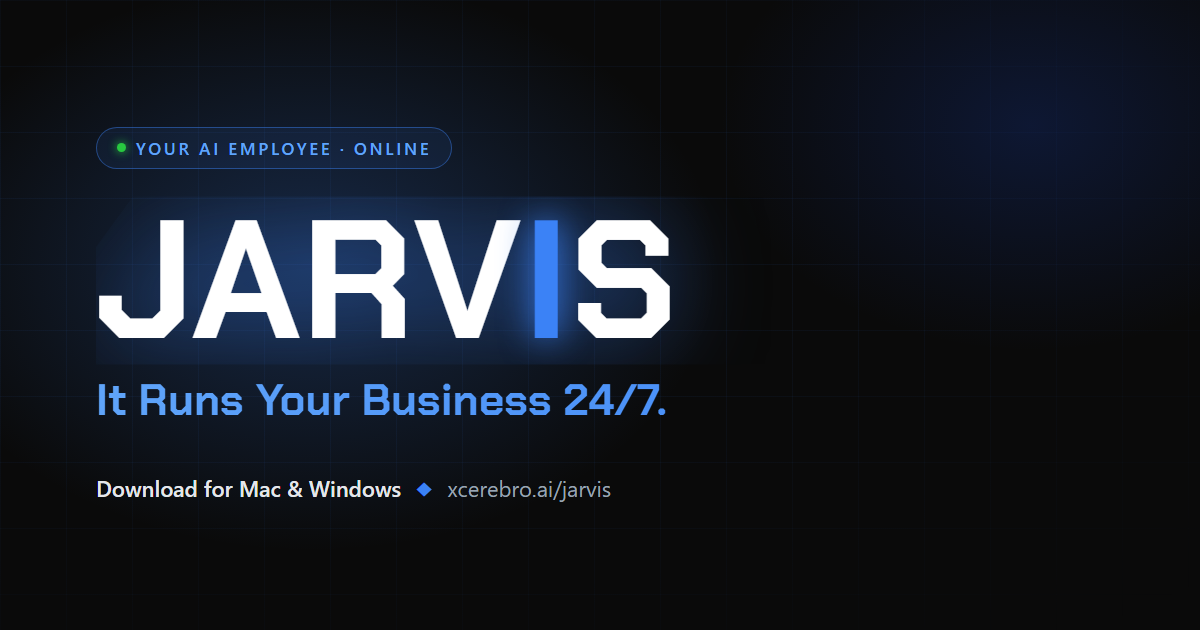
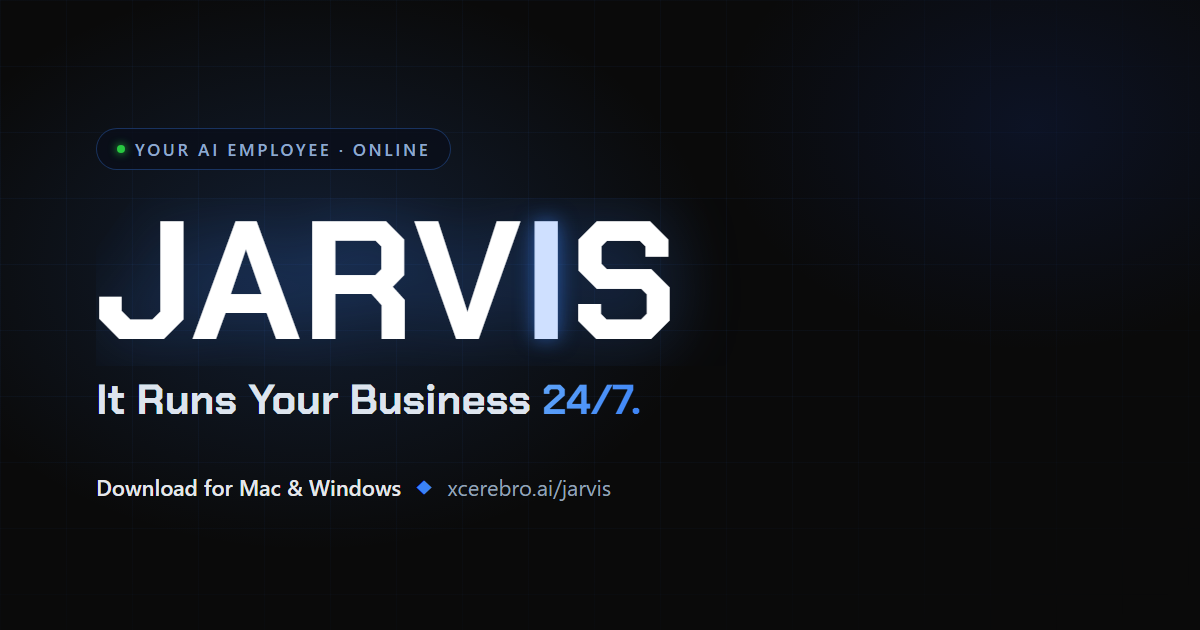
JARVIS landing: brightness rebalance — light is information (docs/jarvis)
Reference physics applied: type is white/dim; glow concentrates on OBJECTS.

Hero type: wordmark stays white with the electric I reduced to a soft
near-white glint + blue underglow; line 2 renders one step smaller (.74em),
near-white, with the gradient carried ONLY by "24/7." — no saturated
two-line gradient wall. Hero title drop-shadows cut to whispers.

The product frame is now THE glow object: 1px electric edge, layered outer
bloom, and a faint floor reflection under the frame — a powered-on screen in
a dark room. Ambient hero radials and body glows reduced ~40% to compensate;
breathing dimmed, radar sweep fainter.

Buttons: featured keeps its fill with glow spread halved (powered, not
radioactive); idle halo dimmed. Secondary hover calmed to match.

Global dim pass: body text to #94A3B8; section labels, HUD ticks, vignette
headers, card borders/shadows, stat-number glow, cmdbar and gs-box all
quieter at rest so hover blooms mean something. Badge chips restyled to the
reference language: dark fill, thin blue outline, letterspaced caps, small
status dot (pill, hudtag, verbadge).

Also fixes a REAL pre-existing phone overflow found while verifying: .inner
is a grid item, so min-width:auto let the nowrap install command's intrinsic
width inflate the hero past narrow viewports — min-width:0 + width:100% pins
it (the command scrolls inside its pill). The mobile "Recommended for you"
tag is dropped ≤560px (the detected line already says it).
[…]

diff --git a/docs/jarvis/index.html b/docs/jarvis/index.html
@@ -32,7 +32,7 @@
   :root{
     --black:#0A0A0A; --midnight:#0F172A; --panel:#111a2e;
     --electric:#3B82F6; --light:#60A5FA;
-    --text:#E5E7EB; --muted:#9AA4B2; --dim:#6B7280; --border:#1F2937;
+    --text:#E5E7EB; --muted:#94A3B8; --dim:#6B7280; --border:#1F2937;
     --glow:rgba(59,130,246,.45);
     --grad:linear-gradient(120deg,#60A5FA,#3B82F6);
     --font:'Inter',-apple-system,BlinkMacSystemFont,'Segoe UI',Roboto,Helvetica,Arial,sans-serif;
@@ -52,8 +52,8 @@
     mask-image:radial-gradient(130% 90% at 50% 0%, #000 35%, transparent 82%)}
   /* two large ambient glows (electric upper-left, deeper blue upper-right) */
   body::after{content:""; position:fixed; inset:0; z-index:-3; pointer-events:none;
-    background:radial-gradient(46% 40% at 14% 6%, rgba(59,130,246,.17), transparent 62%),
-      radial-gradient(44% 38% at 86% 4%, rgba(29,78,216,.15), transparent 62%)}
+    background:radial-gradient(46% 40% at 14% 6%, rgba(59,130,246,.10), transparent 62%),
+      radial-gradient(44% 38% at 86% 4%, rgba(29,78,216,.09), transparent 62%)}
 
   a{color:var(--light); text-decoration:none}
   a:hover{text-decoration:underline}
@@ -64,10 +64,10 @@
   .grad{background:var(--grad); -webkit-background-clip:text; background-clip:text; color:transparent}
 
   /* section label: TEXT ——• */
-  .label{display:inline-flex; align-items:center; gap:12px; color:var(--light);
+  .label{display:inline-flex; align-items:center; gap:12px; color:rgba(96,165,250,.72);
     font-size:.74rem; font-weight:600; letter-spacing:.16em; text-transform:uppercase}
-  .label .line{width:42px; height:1px; background:linear-gradient(90deg, transparent, var(--electric))}
-  .label .dot{width:6px; height:6px; border-radius:50%; background:var(--light); box-shadow:0 0 9px var(--light)}
+  .label .line{width:42px; height:1px; background:linear-gradient(90deg, transparent, rgba(59,130,246,.55))}
+  .label .dot{width:6px; height:6px; border-radius:50%; background:rgba(96,165,250,.8); box-shadow:0 0 6px rgba(96,165,250,.5)}
   .section-head{text-align:center; max-width:660px; margin:0 auto 34px}
   .section-head .label{justify-content:center; margin-bottom:14px}
   h2{font-family:var(--display); font-weight:700; color:#fff; text-wrap:balance;
@@ -77,10 +77,10 @@
   /* HUD corner ticks — precise interface detailing on the card surfaces */
   .hud{position:relative}
   .hud::before,.hud::after{content:""; position:absolute; width:13px; height:13px; pointer-events:none;
-    opacity:.45; transition:opacity .3s}
+    opacity:.26; transition:opacity .3s}
   .hud::before{top:-1px; left:-1px; border-top:1.5px solid var(--electric); border-left:1.5px solid var(--electric); border-top-left-radius:3px}
   .hud::after{bottom:-1px; right:-1px; border-bottom:1.5px solid var(--electric); border-right:1.5px solid var(--electric); border-bottom-right-radius:3px}
-  .hud:hover::before,.hud:hover::after{opacity:1}
+  .hud:hover::before,.hud:hover::after{opacity:.85}
 
   /* reveal-on-scroll (JS opts in; no-JS + reduced-motion = visible) */
   html:not(.nojs) .reveal{opacity:0; transform:translateY(24px); transition:opacity .6s ease, transform .6s cubic-bezier(.2,.7,.2,1)}
@@ -92,39 +92,46 @@
   .glow{position:absolute; border-radius:50%; left:50%; top:40%; transform:translate(-50%,-50%); filter:blur(34px)}
   /* slow ambient breathing — the system idling under the page */
   .glow.g1{width:min(760px,92vw); height:min(760px,92vw);
-    background:radial-gradient(circle, rgba(59,130,246,.36), rgba(59,130,246,.09) 46%, transparent 68%); animation:breathe 9s ease-in-out infinite}
+    background:radial-gradient(circle, rgba(59,130,246,.22), rgba(59,130,246,.055) 46%, transparent 68%); animation:breathe 9s ease-in-out infinite}
   .glow.g2{width:min(440px,62vw); height:min(440px,62vw); top:34%; left:38%;
-    background:radial-gradient(circle, rgba(96,165,250,.32), transparent 62%); animation:breathe 8s ease-in-out infinite 1.2s}
+    background:radial-gradient(circle, rgba(96,165,250,.19), transparent 62%); animation:breathe 8s ease-in-out infinite 1.2s}
   .glow.g3{width:min(520px,66vw); height:min(520px,66vw); top:36%; left:64%;
-    background:radial-gradient(circle, rgba(29,78,216,.28), transparent 62%); animation:breathe 10s ease-in-out infinite .5s}
-  @keyframes breathe{0%,100%{opacity:.68; transform:translate(-50%,-50%) scale(1)} 50%{opacity:.95; transform:translate(-50%,-50%) scale(1.055)}}
+    background:radial-gradient(circle, rgba(29,78,216,.17), transparent 62%); animation:breathe 10s ease-in-out infinite .5s}
+  @keyframes breathe{0%,100%{opacity:.55; transform:translate(-50%,-50%) scale(1)} 50%{opacity:.8; transform:translate(-50%,-50%) scale(1.055)}}
   /* radar sweep — one thin conic wedge, barely there */
   .sweep{position:absolute; left:50%; top:40%; width:min(720px,90vw); height:min(720px,90vw);
     margin:calc(min(720px,90vw)/-2) 0 0 calc(min(720px,90vw)/-2); border-radius:50%; pointer-events:none;
-    background:conic-gradient(from 0deg, transparent 0deg 336deg, rgba(96,165,250,.10) 352deg, transparent 360deg)}
+    background:conic-gradient(from 0deg, transparent 0deg 336deg, rgba(96,165,250,.07) 352deg, transparent 360deg)}
   /* cursor-proximity glow (JS positions it; hidden on touch / reduced motion) */
   #cur{position:absolute; left:0; top:0; width:360px; height:360px; border-radius:50%; z-index:0;
     background:radial-gradient(circle, rgba(96,165,250,.09), transparent 64%);
     opacity:0; transition:opacity .5s ease; pointer-events:none; will-change:transform}
 
-  .hero .inner{position:relative; z-index:1; max-width:820px}
+  /* min-width:0 + width:100%: .inner is a grid item, so min-width:auto would
+     let the nowrap install command's intrinsic width inflate it past narrow
+     viewports (pre-existing phone overflow — the command box must scroll
+     INSIDE, never size the hero) */
+  .hero .inner{position:relative; z-index:1; max-width:820px; width:100%; min-width:0}
   .pills{display:flex; gap:10px; justify-content:center; flex-wrap:wrap}
+  /* badge chips: dark fill, thin blue outline, letterspaced caps — quiet, precise */
   .pill{display:inline-flex; align-items:center; gap:9px; padding:7px 16px; border-radius:999px;
-    border:1px solid rgba(59,130,246,.42); background:rgba(59,130,246,.07); color:var(--light);
-    font-size:.72rem; font-weight:600; letter-spacing:.14em; text-transform:uppercase; box-shadow:0 0 22px rgba(59,130,246,.16)}
-  .pill .d{width:7px; height:7px; border-radius:50%; background:var(--light); box-shadow:0 0 9px var(--light)}
+    border:1px solid rgba(59,130,246,.3); background:rgba(9,14,26,.72); color:#8FA9CE;
+    font-size:.7rem; font-weight:600; letter-spacing:.15em; text-transform:uppercase}
+  .pill .d{width:6px; height:6px; border-radius:50%; background:rgba(96,165,250,.85); box-shadow:0 0 6px rgba(96,165,250,.5)}
   .pill.sys{font-family:var(--mono); letter-spacing:.2em; padding:7px 13px}
   .pill.sys .d{background:#28c840; box-shadow:0 0 9px #28c840}
 
   .h-title{font-family:var(--display); font-weight:700; font-size:clamp(2.6rem,7.6vw,4.7rem);
     line-height:1.06; letter-spacing:.005em; margin-top:24px}
   .h-title > span{display:block}
-  .h-title .l1{color:#fff; filter:drop-shadow(0 0 22px rgba(59,130,246,.28))}
-  .h-title .l2{filter:drop-shadow(0 0 30px rgba(59,130,246,.4))}
-  /* wordmark: chamfered corner clips the J (echoes the ◆ mark); the I is the
-     power indicator — lit electric, like the system's on-light */
+  /* type stays mostly white/dim — glow belongs to objects, not typography */
+  .h-title .l1{color:#fff; filter:drop-shadow(0 0 18px rgba(59,130,246,.14))}
+  .h-title .l2{font-size:.74em; color:#DDE4EE; margin-top:.18em;
+    filter:drop-shadow(0 0 14px rgba(59,130,246,.12))}
+  /* wordmark: chamfered corner clips the J (echoes the ◆ mark); the I is a
+     soft glint — near-white with a blue underglow, not a saturated block */
   .wm{display:inline-block; clip-path:polygon(0 .3em, .22em 0, 100% 0, 100% 100%, 0 100%)}
-  .wm .i{color:var(--electric); text-shadow:0 0 20px rgba(59,130,246,.95)}
+  .wm .i{color:#CFE0FF; text-shadow:0 0 14px rgba(59,130,246,.6), 0 2px 22px rgba(59,130,246,.35)}
   .subtag{margin:20px auto 0; max-width:640px; color:var(--muted); font-size:clamp(1rem,2.4vw,1.15rem)}
 
   .downloads{display:flex; gap:16px; justify-content:center; flex-wrap:wrap; margin-top:34px}
@@ -133,12 +140,12 @@
     transition:transform .14s ease, box-shadow .25s ease, background .25s, color .2s, border-color .2s;
     border:1.5px solid rgba(59,130,246,.5); background:rgba(59,130,246,.05); color:var(--light)}
   .btn svg{width:22px; height:22px; flex:0 0 auto}
-  .btn:hover{transform:translateY(-2px); color:#fff; text-decoration:none; border-color:var(--electric); box-shadow:0 10px 40px var(--glow)}
-  .btn.primary{background:var(--grad); color:#fff; border-color:transparent; box-shadow:0 8px 34px var(--glow)}
-  .btn.primary:hover{box-shadow:0 14px 52px rgba(59,130,246,.7)}
-  /* featured button carries a faint idle pulse — the eye lands where the power is */
+  .btn:hover{transform:translateY(-2px); color:#fff; text-decoration:none; border-color:var(--electric); box-shadow:0 8px 24px rgba(59,130,246,.3)}
+  /* featured button reads "powered", not radioactive: fill stays, glow halved */
+  .btn.primary{background:var(--grad); color:#fff; border-color:transparent; box-shadow:0 5px 18px rgba(59,130,246,.3)}
+  .btn.primary:hover{box-shadow:0 8px 28px rgba(59,130,246,.42)}
   .btn.primary .halo{position:absolute; inset:-3px; border-radius:15px; z-index:-1; pointer-events:none;
-    box-shadow:0 0 38px 8px rgba(59,130,246,.5); opacity:.28}
+    box-shadow:0 0 20px 4px rgba(59,130,246,.35); opacity:.2}
   .btn .rec{font-size:.7rem; font-weight:600; opacity:.85; margin-left:2px}
   .btn .rec:empty{display:none}
   .detected{margin-top:16px; color:var(--dim); font-size:.9rem; min-height:1.2em}
@@ -160,7 +167,7 @@
   #os-win:checked ~ .panels .panel-win,
   #os-mac:checked ~ .panels .panel-mac{display:block}
   .cmdbar{display:flex; align-items:center; gap:12px; text-align:left; background:var(--midnight);
-    border:1px solid rgba(59,130,246,.28); border-radius:12px; padding:13px 15px; box-shadow:0 0 40px rgba(59,130,246,.1)}
+    border:1px solid rgba(59,130,246,.2); border-radius:12px; padding:13px 15px; box-shadow:0 0 28px rgba(59,130,246,.05)}
   .cmdbar .prompt{color:var(--electric); font-family:var(--mono); user-select:none}
   /* overflow scrolls but shows no scrollbar; right edge fades instead */
   .cmdbar code{font-family:var(--mono); font-size:.88rem; color:var(--light); overflow-x:auto; white-space:nowrap; flex:1;
@@ -183,9 +190,15 @@
   .product{padding:64px 0 48px}
   .mock-wrap{max-width:940px; margin:0 auto; position:relative}
   .mock-wrap::before{content:""; position:absolute; inset:4% 8% -10% 8%; z-index:0;
-    background:radial-gradient(60% 60% at 50% 40%, var(--glow), transparent 70%); filter:blur(46px)}
-  .mock{position:relative; z-index:1; border:1px solid #24324a; border-radius:16px; overflow:hidden;
-    background:var(--midnight); box-shadow:0 34px 90px rgba(0,0,0,.6), 0 0 0 1px rgba(59,130,246,.16)}
+    background:radial-gradient(60% 60% at 50% 40%, rgba(59,130,246,.3), transparent 70%); filter:blur(46px)}
+  /* faint reflection under the frame — screen light falling on the floor */
+  .mock-wrap::after{content:""; position:absolute; left:8%; right:8%; bottom:-44px; height:44px; z-index:0;
+    background:radial-gradient(52% 100% at 50% 0%, rgba(59,130,246,.2), transparent 72%); filter:blur(7px)}
+  /* THE glow object: a powered-on screen in a dark room — neon edge, layered bloom */
+  .mock{position:relative; z-index:1; border:1px solid rgba(59,130,246,.6); border-radius:16px; overflow:hidden;
+    background:var(--midnight);
+    box-shadow:0 0 0 1px rgba(59,130,246,.22), 0 0 22px rgba(59,130,246,.3),
+      0 0 74px rgba(59,130,246,.2), 0 34px 90px rgba(0,0,0,.6)}
   .mock .chrome{display:flex; align-items:center; gap:8px; padding:11px 16px; background:#0c1424; border-bottom:1px solid var(--border)}
   .mock .dot{width:11px; height:11px; border-radius:50%}
   .mock .dot.r{background:#ff5f57}.mock .dot.y{background:#febc2e}.mock .dot.g{background:#28c840}
@@ -212,8 +225,8 @@
   .mock .inputbar .send{width:30px; height:30px; border-radius:8px; background:var(--electric); display:grid; place-items:center; flex:0 0 auto}
   .mock .inputbar .send svg{width:16px; height:16px; fill:#fff}
   .hudtag{position:absolute; top:14px; right:16px; display:inline-flex; align-items:center; gap:7px;
-    font-family:var(--mono); font-size:.68rem; letter-spacing:.18em; color:var(--light);
-    border:1px solid rgba(59,130,246,.4); border-radius:20px; padding:4px 11px; background:rgba(59,130,246,.08)}
+    font-family:var(--mono); font-size:.68rem; letter-spacing:.18em; color:#8FA9CE;
+    border:1px solid rgba(59,130,246,.28); border-radius:20px; padding:4px 11px; background:rgba(9,14,26,.72)}
   .hudtag .hdot{width:6px; height:6px; border-radius:50%; background:#28c840; box-shadow:0 0 8px #28c840}
 
   /* ---------- FEATURES ---------- */
@@ -231,10 +244,10 @@
   .art{width:100%; max-width:390px; aspect-ratio:16/10; border:1px solid var(--border); border-radius:16px;
     background:linear-gradient(180deg,#0e1626,#0b1120); padding:16px 16px 14px; overflow:hidden;
     display:flex; flex-direction:column; gap:8px; text-align:left;
-    box-shadow:0 0 46px rgba(59,130,246,.08); transition:border-color .25s, box-shadow .25s, transform .25s}
+    box-shadow:0 0 30px rgba(59,130,246,.04); transition:border-color .25s, box-shadow .25s, transform .25s}
   .feat:hover .art{border-color:rgba(59,130,246,.55); box-shadow:0 0 66px rgba(59,130,246,.2); transform:translateY(-3px)}
   .vhead{display:flex; align-items:baseline; gap:8px; font-size:.66rem; font-weight:600; letter-spacing:.16em;
-    text-transform:uppercase; color:var(--light); margin-bottom:2px}
+    text-transform:uppercase; color:rgba(96,165,250,.72); margin-bottom:2px}
   .vhead .vsub{color:var(--dim); letter-spacing:.06em; font-weight:500; text-transform:none; font-size:.72rem;
     overflow:hidden; text-overflow:ellipsis; white-space:nowrap}
   .vfoot{display:flex; align-items:center; gap:7px; margin-top:auto; color:var(--dim); font-size:.72rem}
@@ -297,7 +310,7 @@
     transition:border-color .25s, box-shadow .25s, transform .25s}
   .stat:hover{border-color:rgba(59,130,246,.55); box-shadow:0 0 44px rgba(59,130,246,.16); transform:translateY(-2px)}
   .stat .num{font-family:var(--display); font-weight:700; color:#fff; font-size:clamp(1.9rem,4vw,2.6rem); line-height:1;
-    letter-spacing:.01em; filter:drop-shadow(0 0 16px rgba(59,130,246,.35)); font-variant-numeric:tabular-nums}
+    letter-spacing:.01em; filter:drop-shadow(0 0 12px rgba(59,130,246,.2)); font-variant-numeric:tabular-nums}
   .stat .lbl{color:var(--text); font-weight:600; margin-top:10px; font-size:.95rem}
   .stat .sub{color:var(--dim); font-size:.8rem; margin-top:4px}
 
@@ -305,8 +318,8 @@
   .gs{padding:56px 0 64px; position:relative}
   .gs::before{content:""; position:absolute; inset:0; z-index:-1; pointer-events:none;
     background:radial-gradient(60% 50% at 50% 40%, rgba(59,130,246,.07), transparent 70%)}
-  .gs-box{max-width:720px; margin:0 auto; background:var(--panel); border:1px solid rgba(59,130,246,.28); border-radius:16px;
-    padding:28px 32px; box-shadow:0 0 50px rgba(59,130,246,.1)}
+  .gs-box{max-width:720px; margin:0 auto; background:var(--panel); border:1px solid rgba(59,130,246,.18); border-radius:16px;
+    padding:28px 32px; box-shadow:0 0 36px rgba(59,130,246,.05)}
   .gs-box ol{margin:14px 0 0 20px; color:var(--muted)}
   .gs-box li{margin:8px 0}
   .gs-box li b{color:var(--text); font-weight:600}
@@ -314,8 +327,8 @@
 
   /* ---------- FOOTER ---------- */
   footer{padding:48px 24px 56px; text-align:center; color:var(--dim); font-size:.9rem; border-top:1px solid var(--border)}
-  .verbadge{display:inline-flex; align-items:center; gap:8px; border:1px solid rgba(59,130,246,.42);
-    background:rgba(59,130,246,.08); color:var(--light); border-radius:20px; padding:6px 16px; font-weight:600; font-size:.85rem; margin-bottom:22px}
+  .verbadge{display:inline-flex; align-items:center; gap:8px; border:1px solid rgba(59,130,246,.28);
+    background:rgba(9,14,26,.72); color:#8FA9CE; border-radius:20px; padding:6px 16px; font-weight:600; font-size:.85rem; margin-bottom:22px}
   .verbadge:hover{text-decoration:none; box-shadow:0 0 24px var(--glow)}
   .verbadge .pip{width:7px; height:7px; border-radius:50%; background:#28c840; box-shadow:0 0 8px #28c840}
   footer .links{margin-bottom:14px}
@@ -340,7 +353,7 @@
     .sweep{animation:sweep 16s linear infinite 1.6s}
     @keyframes sweep{from{transform:rotate(0)} to{transform:rotate(360deg)}}
     .btn.primary .halo{animation:halo 3.4s ease-in-out infinite 1.4s}
-    @keyframes halo{0%,100%{opacity:.22} 50%{opacity:.6}}
+    @keyframes halo{0%,100%{opacity:.14} 50%{opacity:.38}}
 
     /* ignite as sections power on (one brief bloom, then settle) */
     html.js .reveal.show .art, html.js .stat.reveal.show, html.js .gs-box.ignite{animation:ignite .9s ease-out .1s}
@@ -388,7 +401,10 @@
   }
   @media (max-width:560px){
     .hero{padding:88px 20px 56px}
-    .btn{width:100%; justify-content:center}
+    /* nowrap + the "Recommended" tag exceeds narrow phones — the detected
+       line below the buttons already carries the recommendation */
+    .btn{width:100%; justify-content:center; min-width:0}
+    .btn .rec{display:none}
     .downloads{flex-direction:column}
     .cmdbar{flex-wrap:wrap}
     .cmdbar code{flex-basis:100%; order:3}
@@ -416,7 +432,7 @@
       </div>
       <h1 class="h-title">
         <span class="l1">Meet <span class="wm">JARV<span class="i">I</span>S</span>.</span>
-        <span class="l2 grad">It Runs Your Business 24/7.</span>
+        <span class="l2">It Runs Your Business <span class="grad">24/7.</span></span>
       </h1>
       <p class="subtag">An AI agent that works across your desktop, terminal, and phone — with its own memory, its own skills, and the run of your tools.</p>
 
